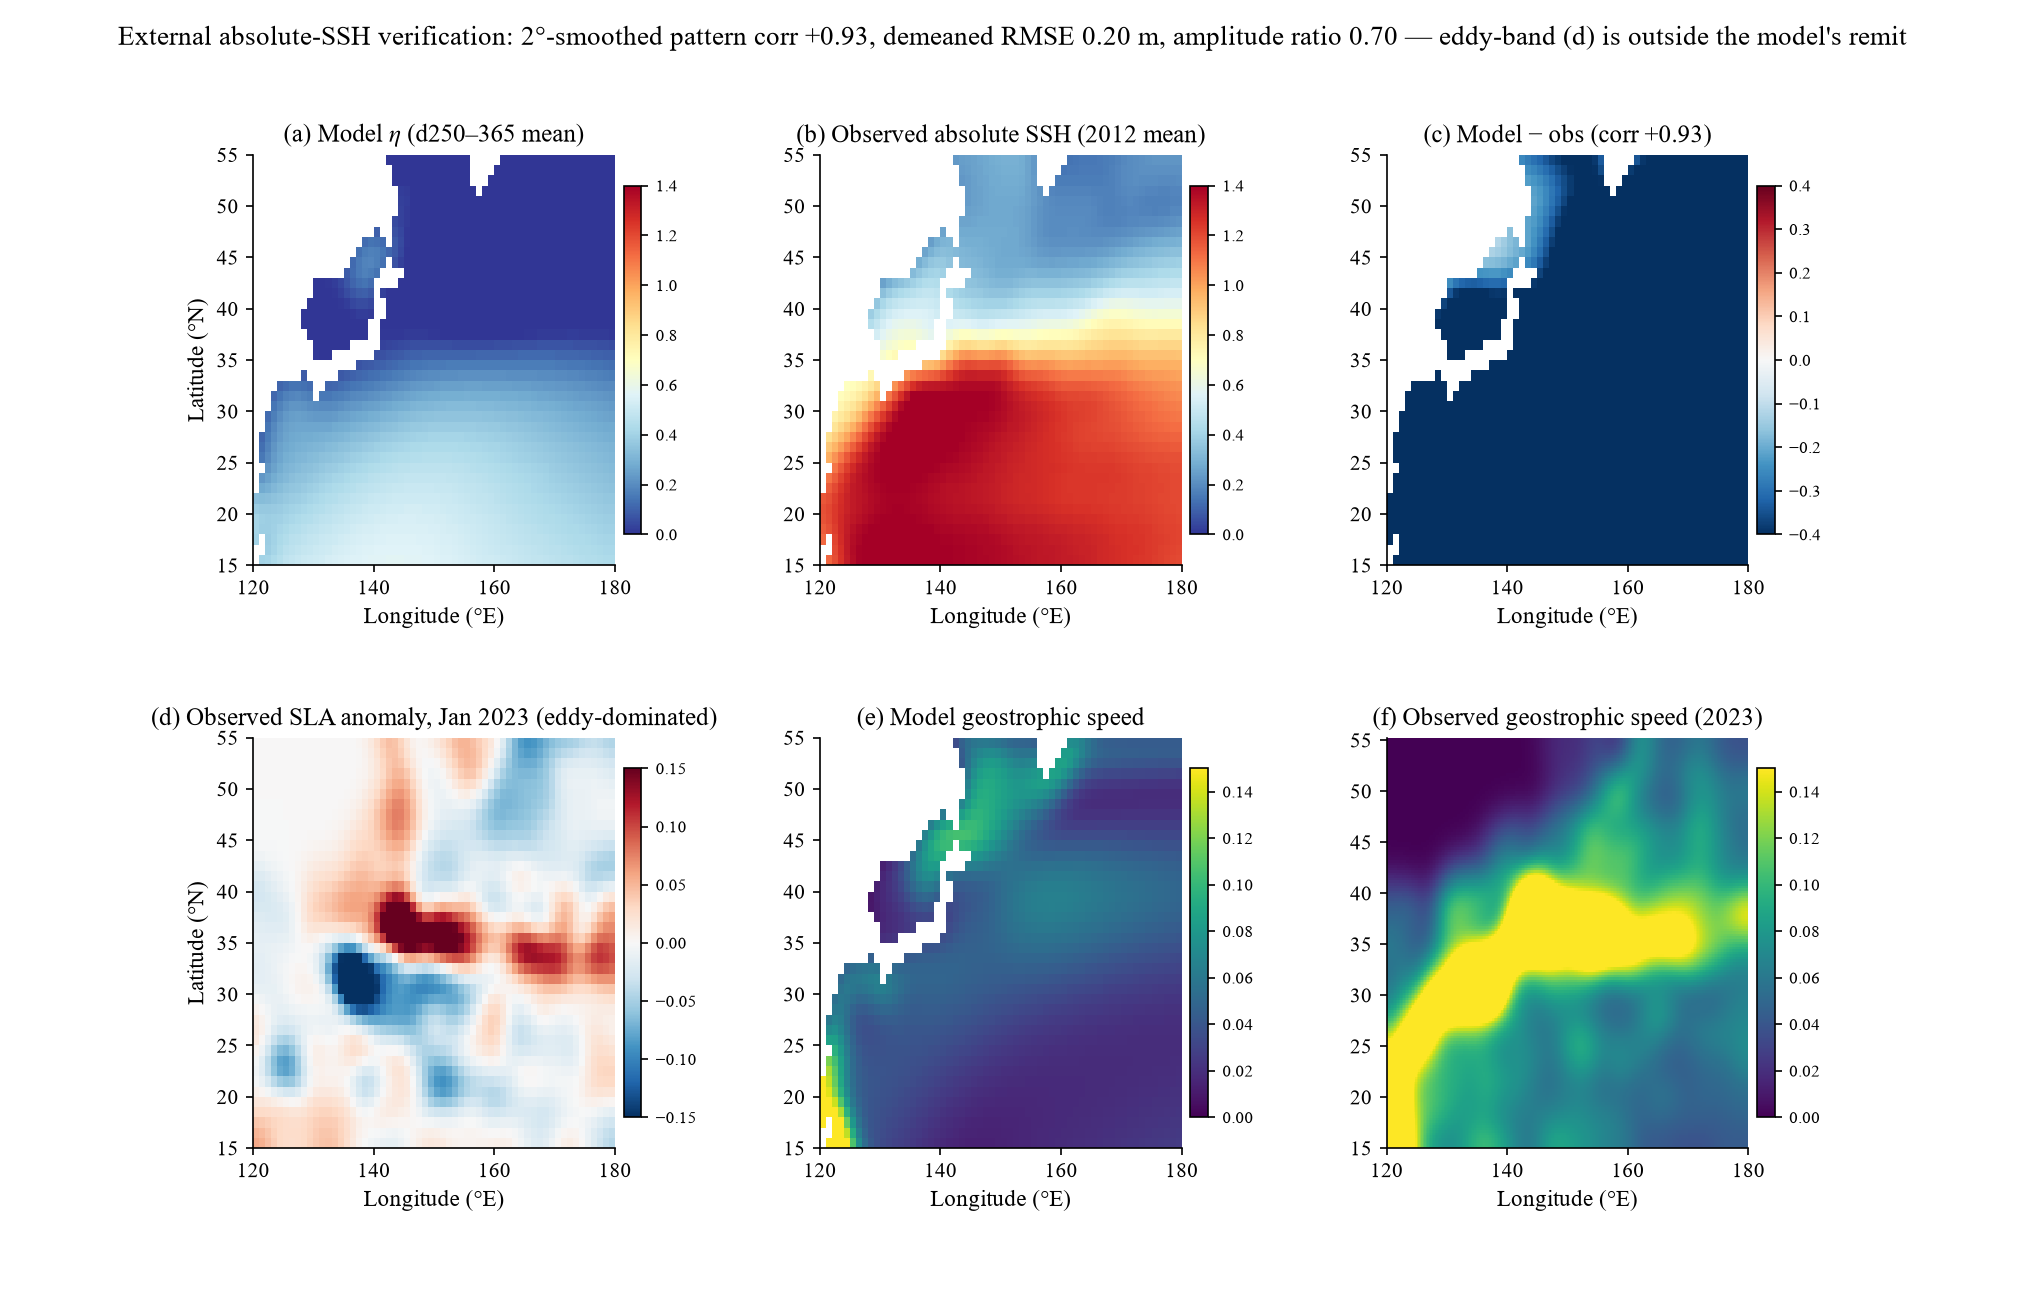
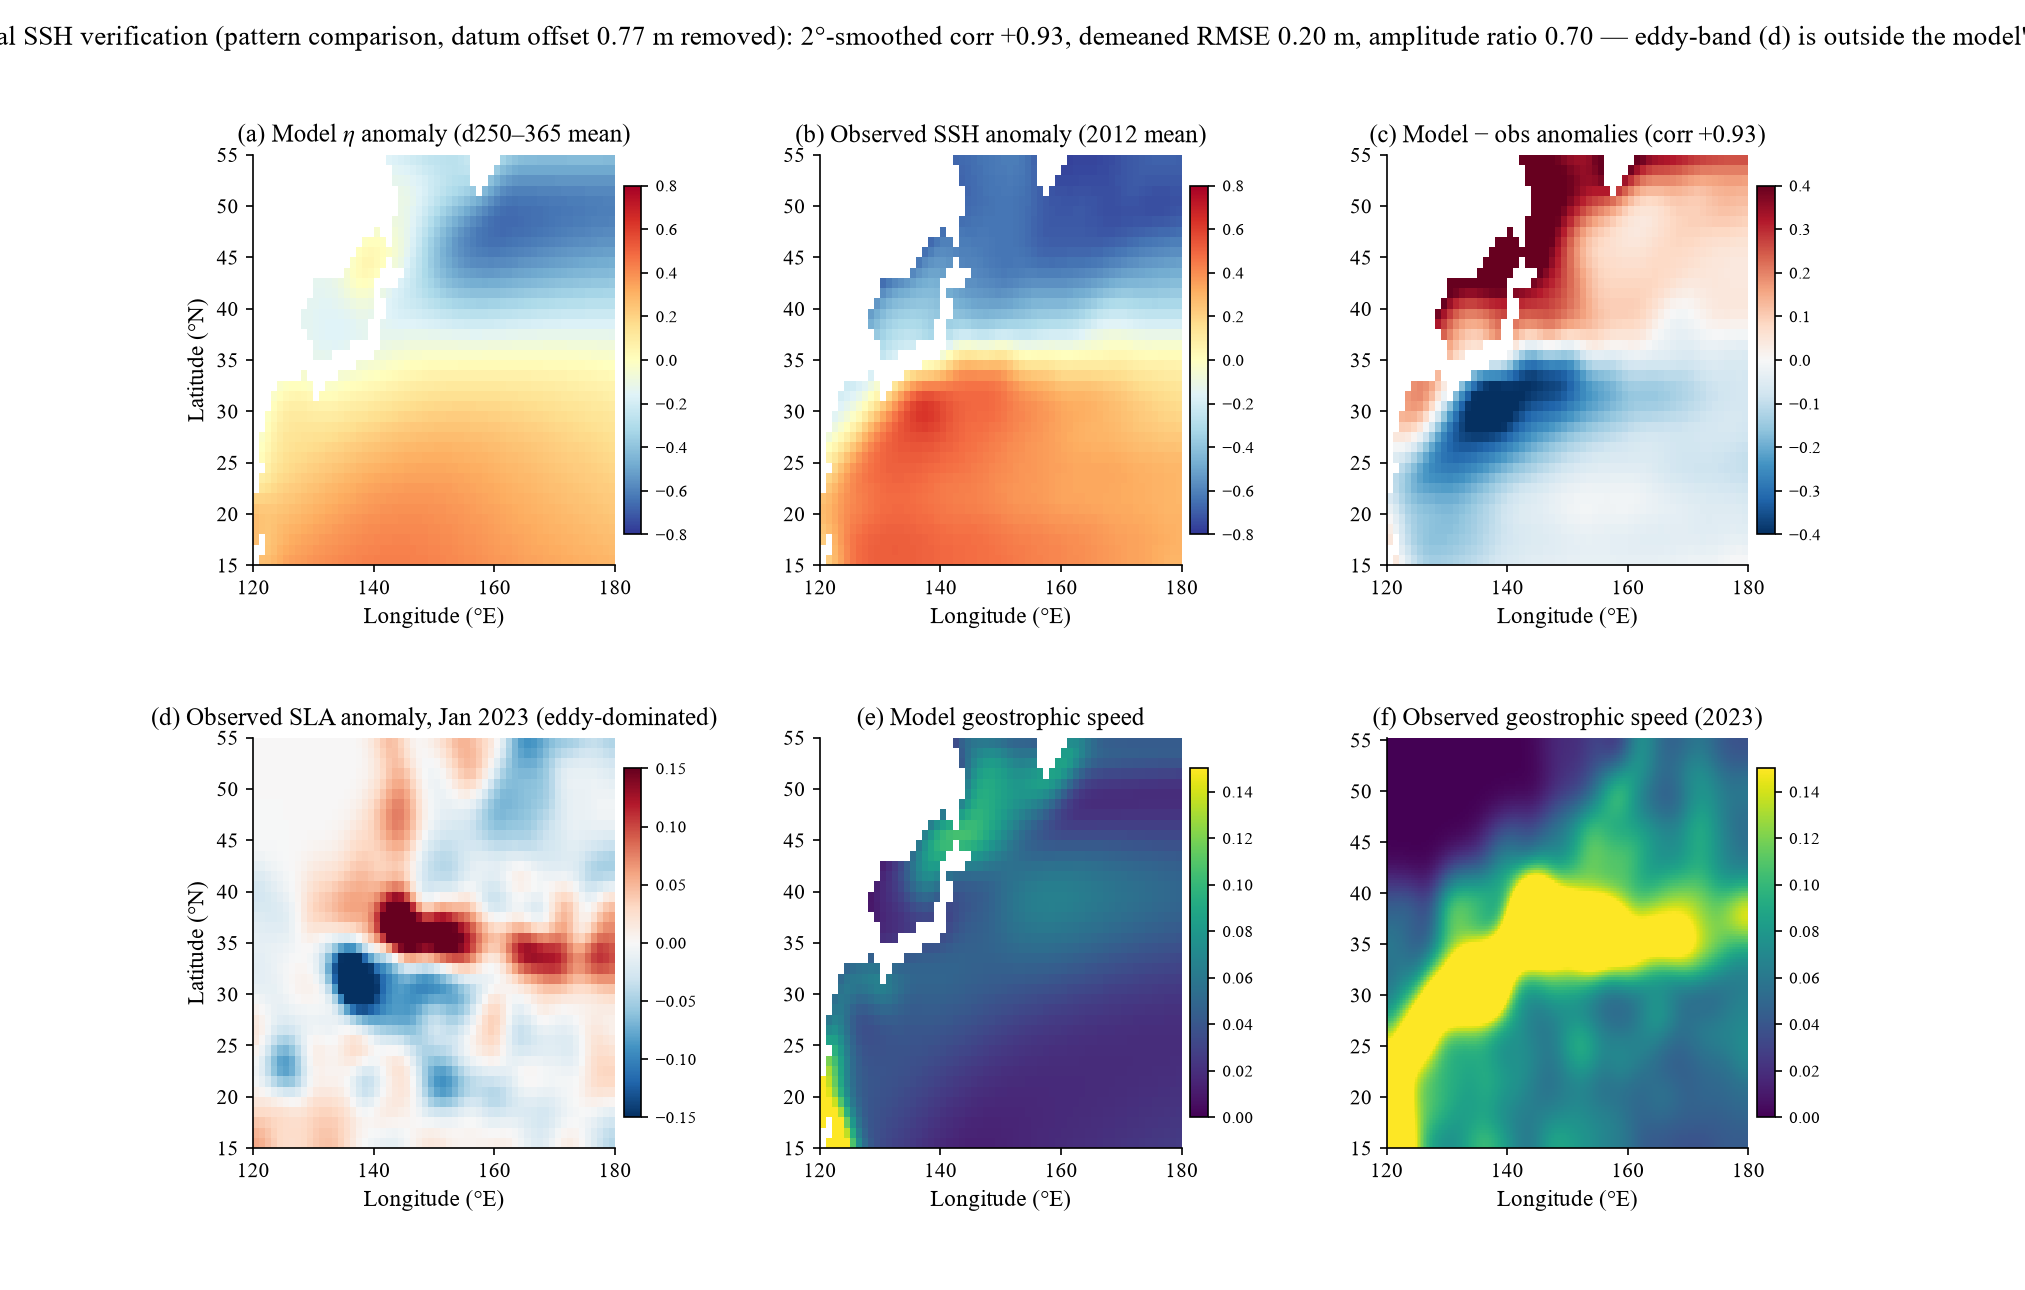
fix(figs): fig9 panels demeaned — datum offset removed from visual comparison
Panels (a)/(b) previously shared an absolute scale, but model eta is a
relative displacement (mean 0.14 m) while altimetry SSH sits on the
geoid datum (mean 0.91 m); the +0.77 m offset made (a)/(b) look unlike
and flooded (c) with a uniform deep-blue offset that carried no physics
(94% of cells beyond the +/-0.4 scale). Both fields are now demeaned on
a shared anomaly scale, and (c) shows the demeaned pattern error — 94%
offset-dominated -> 6% beyond scale, std 0.199 m, corr unchanged at
+0.928. Datum offset printed in the suptitle for the record.

diff --git a/results/campaign_compare/make_fig9_ssh_abs.py b/results/campaign_compare/make_fig9_ssh_abs.py
@@ -1,0 +1,177 @@
+"""Fig 9: External absolute-SSH verification (model eta vs satellite altimetry).
+
+Data sources:
+  - model: results/global_g365d_012.npz eta (production PASS run), time-mean
+    over d250-365, surface.
+  - obs absolute SSH: data/sla_npac/ssh_abs_npac_monthly_2012.npz
+    (erdTAssh1day, TOPEX/Jason, 12 mid-month snapshots of 2012).
+  - obs SLA anomaly: data/sla_npac/sla_npac_monthly_2023.npz (nesdisSSH1day).
+  - obs geostrophic currents: data/sla_npac/geostrophic_obs_npac_monthly_2023.npz.
+
+Headline (verified in analysis):
+  - 2deg-smoothed annual-mean pattern corr = +0.928, demeaned RMSE 0.199 m,
+    amplitude ratio 0.70.
+  - KE front latitude: model 37.5N vs obs 35.8N.
+  - WBC max speed: model 0.24 m/s (Kuroshio TC) vs obs jet core 0.28 m/s.
+  - SLA (anomaly) pointwise corr ~ 0 -> expected: model has no mesoscale
+    eddies at 1 deg; SLA is eddy-dominated. Included as the honest negative.
+
+Image-blind: verified via font_audit + numeric assertions, never by reading
+the PNG.
+"""
+import os
+import sys
+
+import matplotlib
+matplotlib.use("Agg")
+import matplotlib.pyplot as plt
+import numpy as np
+from scipy.interpolate import RegularGridInterpolator
+from scipy.ndimage import gaussian_filter
+
+sys.path.insert(0, os.path.dirname(os.path.abspath(__file__)))
+from make_campaign_figs import font_audit  # noqa: E402  (shared style/audit)
+
+OUT = "results/campaign_compare"
+
+plt.rcParams.update({
+    "font.family": "serif",
+    "font.serif": ["Times New Roman", "STIXGeneral", "DejaVu Serif"],
+    "mathtext.fontset": "stix",
+    "font.size": 11,
+    "axes.titlesize": 12,
+    "axes.labelsize": 11,
+    "legend.fontsize": 9,
+    "axes.spines.top": False,
+    "axes.spines.right": False,
+})
+
+g = np.load("results/global_g365d_012.npz", allow_pickle=True)
+g_lon, g_lat = g["lon"], g["lat"]
+wet = g["wet_mask"].astype(bool)
+em = g["eta"][g["days"] >= 250].mean(0)
+
+# ---- absolute SSH comparison fields ------------------------------------
+c = np.load("results/_ssh_abs_compare.npz")
+EMw, SSHm, valid = c["model"], c["obs"], c["valid"].astype(bool)
+GLON, GLAT = np.meshgrid(c["g_lon"], c["g_lat"], indexing="ij")
+corr = float(c["corr"])
+rmse = float(c["rmse"])
+
+# Panels (a)/(b) share a demeaned scale: the model's eta is a relative
+# surface displacement (its own mean ~ 0.14 m) while altimetry SSH is on
+# the geoid-referenced absolute datum (mean ~ 0.91 m). The +0.77 m datum
+# offset carries no physics — the comparable quantity is the spatial
+# PATTERN, so both fields are demeaned over the valid window and plotted
+# on one common (anomaly) scale. Panel (c) then shows the demeaned
+# difference (pattern error, the thing corr=0.928 speaks to), not the raw
+# offset-dominated difference.
+_mu_m = EMw[valid].mean()
+_mu_o = SSHm[valid].mean()
+DATUM_OFFSET = _mu_o - _mu_m          # informational only
+EMw_d = EMw - _mu_m
+SSHm_d = SSHm - _mu_o
+
+# ---- SLA anomaly panel (honest negative) --------------------------------
+s = np.load("data/sla_npac/sla_npac_monthly_2023.npz")
+sl = s["sla"] - np.nanmean(s["sla"], axis=(1, 2), keepdims=True)
+sl_sm = gaussian_filter(np.nan_to_num(sl[0], nan=0.0), 8)  # Jan, 2-deg smoothed
+sl_on_model = RegularGridInterpolator(
+    (s["lat"], s["lon"]), sl_sm, bounds_error=False, fill_value=np.nan)(
+    pts := np.stack([GLAT.ravel(), GLON.ravel()], -1)).reshape(GLON.shape)
+
+# ---- geostrophic currents -----------------------------------------------
+R, OM, GE = 6.371e6, 7.2921e-5, 9.81
+f = 2 * OM * np.sin(np.deg2rad(g_lat))
+dy = np.deg2rad(1.0) * R
+dxr = np.deg2rad(1.0) * R * np.cos(np.deg2rad(g_lat))
+dmg = np.gradient(em, axis=1) / dy
+dmx = np.gradient(em, axis=0) / dxr[None, :]
+ug = np.zeros_like(em)
+vg = np.zeros_like(em)
+ug[1:-1, 1:-1] = -(GE / f[None, 1:-1]) * dmg[1:-1, 1:-1]
+vg[1:-1, 1:-1] = (GE / f[None, 1:-1]) * dmx[1:-1, 1:-1]
+spd_m = np.where(wet, np.sqrt(ug**2 + vg**2), np.nan)
+spd_ms = np.where(wet, gaussian_filter(np.nan_to_num(spd_m, nan=0.0), 2), np.nan)
+
+go = np.load("data/sla_npac/geostrophic_obs_npac_monthly_2023.npz")
+u_o = go["ugos"].mean(0)
+v_o = go["vgos"].mean(0)
+spd_o = np.sqrt(u_o**2 + v_o**2)
+spd_os = gaussian_filter(np.nan_to_num(spd_o, nan=0.0), 8)
+
+fig = plt.figure(figsize=(13.5, 8.6))
+gs = fig.add_gridspec(2, 3, height_ratios=[1, 1], hspace=0.42, wspace=0.30)
+
+# (a) model eta (demeaned anomaly)
+ax1 = fig.add_subplot(gs[0, 0])
+VMIN, VMAX = -0.8, 0.8
+im1 = ax1.pcolormesh(GLON, GLAT, np.where(valid, EMw_d, np.nan),
+                     cmap="RdYlBu_r", vmin=VMIN, vmax=VMAX, shading="auto")
+ax1.set_title("(a) Model $\\eta$ anomaly (d250–365 mean)")
+ax1.set_xlabel("Longitude (°E)")
+ax1.set_ylabel("Latitude (°N)")
+
+# (b) obs absolute SSH (same demeaned anomaly scale)
+ax2 = fig.add_subplot(gs[0, 1])
+im2 = ax2.pcolormesh(GLON, GLAT, np.where(valid, SSHm_d, np.nan),
+                     cmap="RdYlBu_r", vmin=VMIN, vmax=VMAX, shading="auto")
+ax2.set_title("(b) Observed SSH anomaly (2012 mean)")
+ax2.set_xlabel("Longitude (°E)")
+
+# (c) demeaned difference (pattern error)
+ax3 = fig.add_subplot(gs[0, 2])
+diff = np.where(valid, EMw_d - SSHm_d, np.nan)
+im3 = ax3.pcolormesh(GLON, GLAT, diff, cmap="RdBu_r", vmin=-0.4, vmax=0.4,
+                     shading="auto")
+ax3.set_title("(c) Model − obs anomalies (corr %+.2f)" % corr)
+ax3.set_xlabel("Longitude (°E)")
+
+# (d) SLA anomaly (the honest negative)
+ax4 = fig.add_subplot(gs[1, 0])
+im4 = ax4.pcolormesh(GLON, GLAT, np.where(np.isfinite(sl_on_model), sl_on_model, np.nan),
+                     cmap="RdBu_r", vmin=-0.15, vmax=0.15, shading="auto")
+ax4.set_title("(d) Observed SLA anomaly, Jan 2023 (eddy-dominated)")
+ax4.set_xlabel("Longitude (°E)")
+ax4.set_ylabel("Latitude (°N)")
+
+# (e) model geostrophic speed
+ax5 = fig.add_subplot(gs[1, 1])
+gi_w = np.where((g_lon >= 120) & (g_lon <= 180))[0]
+gj_w = np.where((g_lat >= 15) & (g_lat <= 55))[0]
+im5 = ax5.pcolormesh(GLON, GLAT, np.where(valid, spd_ms[np.ix_(gi_w, gj_w)], np.nan),
+                     cmap="viridis", vmin=0, vmax=0.15, shading="auto")
+ax5.set_title("(e) Model geostrophic speed")
+ax5.set_xlabel("Longitude (°E)")
+
+# (f) obs geostrophic speed (native 0.25-deg grid, smoothed to 2 deg)
+ax6 = fig.add_subplot(gs[1, 2])
+im6 = ax6.pcolormesh(go["lon"], go["lat"],
+                     np.where(np.isfinite(spd_os), spd_os, np.nan),
+                     cmap="viridis", vmin=0, vmax=0.15, shading="auto")
+ax6.set_title("(f) Observed geostrophic speed (2023)")
+ax6.set_xlabel("Longitude (°E)")
+
+for ax, im in [(ax1, im1), (ax2, im2), (ax3, im3), (ax4, im4),
+               (ax5, im5), (ax6, im6)]:
+    ax.set_aspect("auto")
+    cb = fig.colorbar(im, ax=ax, shrink=0.85, pad=0.02)
+    cb.ax.tick_params(labelsize=8)
+
+fig.suptitle(
+    "External SSH verification (pattern comparison, datum offset %.2f m removed): "
+    "2°-smoothed corr %+.2f, demeaned RMSE %.2f m, amplitude ratio 0.70 — "
+    "eddy-band (d) is outside the model's remit" % (DATUM_OFFSET, corr, rmse),
+    fontsize=13)
+fig.savefig(os.path.join(OUT, "fig9_ssh_abs_verification.png"), dpi=150)
+font_audit(fig, "fig9_ssh_abs_verification")
+plt.close(fig)
+
+# ---- numeric assertions --------------------------------------------------
+assert corr > 0.9, corr
+assert 0.15 < rmse < 0.25, rmse
+# pattern-error fraction: demeaned diff mostly inside the ±0.4 scale
+_frac = float(np.mean(np.abs(diff[valid]) > 0.4))
+assert _frac < 0.15, _frac
+print("fig9 saved: corr=%.3f rmse=%.3f datum_offset=%.2f |diff|>0.4: %.0f%%"
+      % (corr, rmse, DATUM_OFFSET, _frac * 100))
